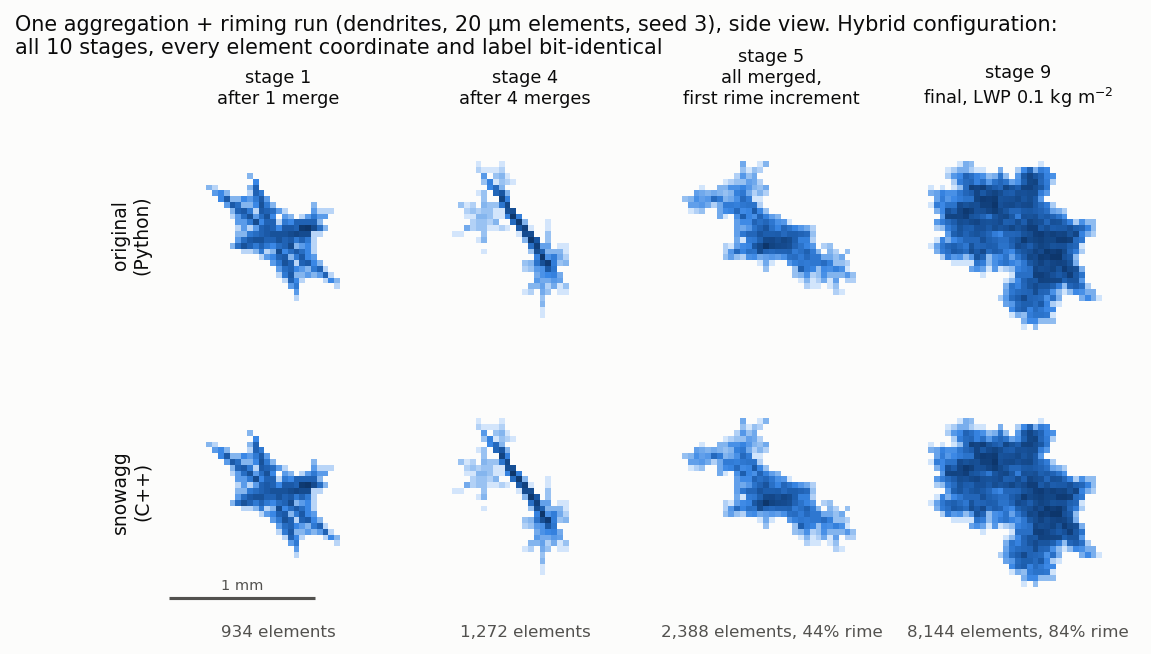
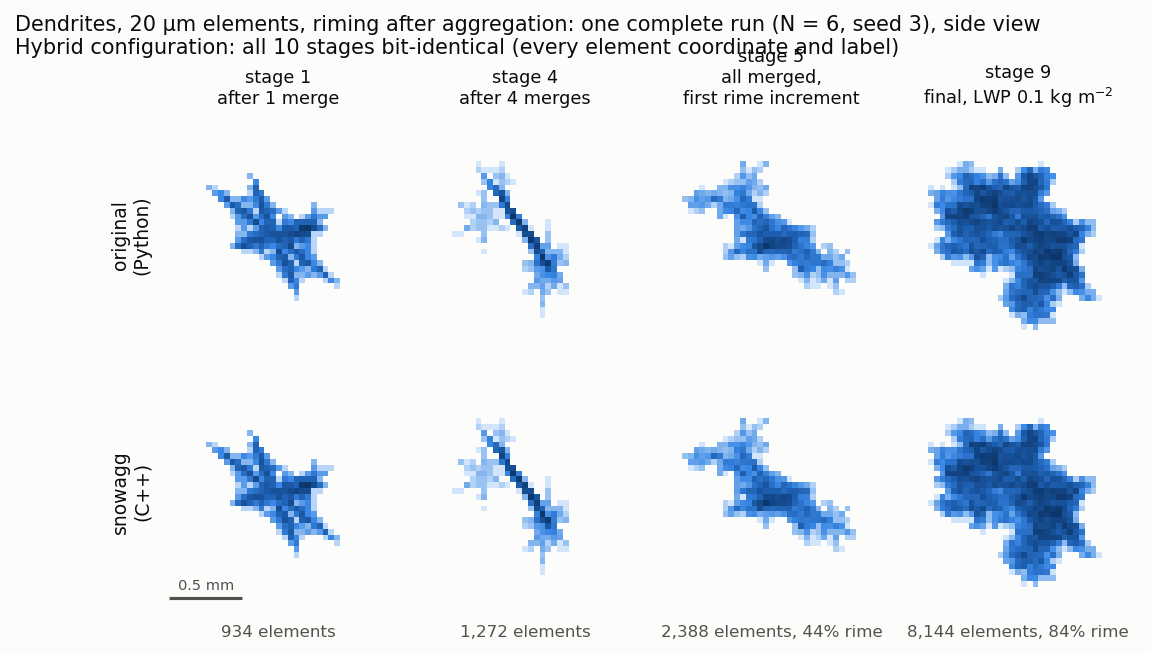
Show three bit-identical runs instead of one
Adds columns rimed after every merge (simultaneous riming) and needles with
rime compaction to the dendrite run; compare_geometry.py takes a list of
hybrid-configuration runs and --only to make a subset of the figures.

Changed region(s): [[0.0, 0.0, 0.9123, 0.0917], [0.152, 0.8869, 0.2737, 0.9174]]

diff --git a/snowagg/docs/compare_geometry.py b/snowagg/docs/compare_geometry.py
@@ -1,7 +1,7 @@
 """Figures comparing the geometry of snowagg's snowflakes with the original.
 
 1. img/monomers.png: monomer lattices of all crystal types (bit-identical).
-2. img/exact_run.png: a complete aggregation + riming run in the hybrid
+2. img/exact_run*.png: three complete aggregation + riming runs in the hybrid
    configuration of tests/hybrid.py (bit-identical at every stage).
 3. img/ensemble.png, img/mass_size.png, img/gallery.png: ensembles of complete
    runs in the normal configuration, where individual runs differ (see the
@@ -43,9 +43,21 @@ RHO_I = 916.7
 KINDS = [("plate", 1.0e-3), ("column", 1.0e-3), ("needle", 1.0e-3), ("dendrite", 2.0e-3),
          ("rosette", 1.0e-3), ("bullet", 0.6e-3), ("spheroid", 0.6e-3)]
 
-EXACT_RUN = (dict(psd="exponential", size=0.5e-3, min_size=0.2e-3, max_size=1.5e-3,
-                  mono_type="dendrite", grid_res=20e-6, rimed=True),
-             dict(N=6, riming_lwp=0.1, riming_mode="subsequent", lwp_div=4), 3)
+# complete runs in the hybrid configuration (bit-identical to the original)
+EXACT_RUNS = [
+    dict(file="exact_run.png", what="Dendrites, 20 µm elements, riming after aggregation",
+         mono=dict(psd="exponential", size=0.5e-3, min_size=0.2e-3, max_size=1.5e-3,
+                   mono_type="dendrite", grid_res=20e-6, rimed=True),
+         kw=dict(N=6, riming_lwp=0.1, riming_mode="subsequent", lwp_div=4), seed=3),
+    dict(file="exact_run_columns.png", what="Columns, 20 µm elements, riming after every merge",
+         mono=dict(psd="exponential", size=0.5e-3, min_size=0.2e-3, max_size=1.5e-3,
+                   mono_type="column", grid_res=20e-6, rimed=True),
+         kw=dict(N=6, riming_lwp=0.1, riming_mode="simultaneous", lwp_div=2), seed=5),
+    dict(file="exact_run_needles.png", what="Needles, 15 µm elements, riming with rime compaction",
+         mono=dict(psd="exponential", size=0.8e-3, min_size=0.3e-3, max_size=2e-3,
+                   mono_type="needle", grid_res=15e-6, rimed=True),
+         kw=dict(N=6, riming_lwp=0.05, riming_mode="subsequent", lwp_div=3, compact_dist=0.5), seed=2),
+]
 
 CONFIGS = {
     "Rimed dendrite aggregates":
@@ -180,7 +192,7 @@ def patched(module, attrs):
             setattr(module, k, v)
 
 
-def exact_run():
+def exact_run(cfg):
     sys.path.insert(0, os.path.join(ROOT, "tests"))
     import hybrid
     from aggregation import aggregate as ref_aggregate
@@ -189,7 +201,7 @@ def exact_run():
     from snowagg import riming as S
 
     stable = _stable_sort_variant(ref_aggregate.RimedAggregate, ["add_rime_particles", "compact_rime"])
-    mono, kw, seed = EXACT_RUN
+    mono, kw, seed = cfg["mono"], cfg["kw"], cfg["seed"]
     with patched(R, hybrid.stable_reference_modules(stable)):
         st_py = [[(a.X.copy(), a.ident.copy()) for a in aggs]
                  for aggs in R.generate_rimed_aggregate(R.gen_monomer(**mono), seed=seed, iter=True, **kw)]
@@ -202,17 +214,39 @@ def exact_run():
     return st_py, st_cc, same
 
 
-def fig_exact_run():
-    st_py, st_cc, same = exact_run()
-    mono, kw, seed = EXACT_RUN
-    N = kw["N"]
-    counts = [len(s) for s in st_py]
-    # the driver yields after every merge except the last one, then after every
-    # rime increment, then the final (re-oriented) particle
-    rimed = counts.index(1)
-    picks = [(1, "after 1 merge"), (N - 2, f"after {N - 2} merges"),
-             (rimed, "all merged,\nfirst rime increment"),
-             (len(st_py) - 1, f"final, LWP {kw['riming_lwp']:g} kg m$^{{-2}}$")]
+def stage_picks(st, N, lwp):
+    """Four stages to show, with labels. The driver yields after every merge
+    except the last one, then (subsequent riming) after every rime increment,
+    then the final, re-oriented particle."""
+    counts = [len(s) for s in st]
+    last = len(st) - 1
+    multi = [k for k in range(1, last + 1) if counts[k] > 1]
+    single = counts.index(1)
+    ks = [multi[0], multi[-1], single if single < last else multi[len(multi) // 2], last]
+    ks = sorted(dict.fromkeys(ks))
+
+    def label(k):
+        if k == last:
+            return f"final, LWP {lwp:g} kg m$^{{-2}}$" if lwp else "final"
+        if counts[k] > 1:
+            m = N - counts[k]
+            return f"after {m} merge{'s' if m > 1 else ''}"
+        return "all merged,\nfirst rime increment" if k == single else f"rime increment {k - single + 1}"
+    return [(k, label(k)) for k in ks]
+
+
+def nice_length(width_mm):
+    """A round scale-bar length of about a quarter of the panel width."""
+    for length in (2, 1, 0.5, 0.25, 0.1):
+        if length <= 0.35 * width_mm:
+            return length
+    return 0.05
+
+
+def fig_exact_run(cfg):
+    st_py, st_cc, same = exact_run(cfg)
+    mono, kw, seed = cfg["mono"], cfg["kw"], cfg["seed"]
+    picks = stage_picks(st_py, kw["N"], kw.get("riming_lwp", 0.0))
     g = mono["grid_res"]
     big = lambda stage: max(stage, key=lambda t: len(t[0]))  # noqa: E731
     hw = 0.55 * max(np.ptp(big(st_py[k])[0], axis=0).max() for k, _ in picks)
@@ -228,14 +262,14 @@ def fig_exact_run():
                         transform=axes[1, j].transAxes, ha="center", va="top", fontsize=8, color=fs.INK_2)
     axes[0, 0].set_ylabel("original\n(Python)", fontsize=9, color=fs.INK)
     axes[1, 0].set_ylabel("snowagg\n(C++)", fontsize=9, color=fs.INK)
-    scale_bar(axes[1, 0], hw, 1.0)
+    scale_bar(axes[1, 0], hw, nice_length(2 * hw * 1e3))
     verdict = "bit-identical" if same else "NOT identical"
-    fig.suptitle(f"One aggregation + riming run (dendrites, 20 µm elements, seed {seed}), side view. "
-                 f"Hybrid configuration:\nall {len(st_py)} stages, every element coordinate and label {verdict}",
+    fig.suptitle(f"{cfg['what']}: one complete run (N = {kw['N']}, seed {seed}), side view\n"
+                 f"Hybrid configuration: all {len(st_py)} stages {verdict} (every element coordinate and label)",
                  fontsize=10, x=0.01, ha="left")
     fig.subplots_adjust(wspace=0.04, hspace=0.04, top=0.84)
-    fs.save(fig, "exact_run.png")
-    print(f"exact run: {len(st_py)} stages, identical={same}")
+    fs.save(fig, cfg["file"])
+    print(f"{cfg['file']}: {len(st_py)} stages, identical={same}")
 
 
 # ---- 3. ensembles, normal configuration ----------------------------------------
@@ -379,11 +413,17 @@ def main():
     ap.add_argument("--members", type=int, default=300)
     ap.add_argument("--workers", type=int, default=6)
     ap.add_argument("--recompute", action="store_true")
+    ap.add_argument("--only", choices=["monomers", "runs", "ensembles"], help="make only these figures")
     args = ap.parse_args()
     fs.apply()
     sys.path.insert(0, os.path.join(ROOT, "tests"))
-    fig_monomers()
-    fig_exact_run()
+    if args.only in (None, "monomers"):
+        fig_monomers()
+    if args.only in (None, "runs"):
+        for cfg in EXACT_RUNS:
+            fig_exact_run(cfg)
+    if args.only is not None and args.only != "ensembles":
+        return
     rows, projs = ensembles(args.members, args.workers, args.recompute)
     for name in CONFIGS:
         for key, *_ in PROPS:

diff --git a/snowagg/README.md b/snowagg/README.md
@@ -133,10 +133,14 @@ Monomer lattices are bit-identical in both configurations:
 
 ![Monomer lattices of all crystal types from the original and from snowagg](docs/img/monomers.png)
 
-A complete aggregation and riming run in the hybrid configuration; all stages are
-identical element by element:
+Three complete aggregation and riming runs in the hybrid configuration, with
+different monomers and riming modes; all stages are identical element by element:
 
-![One complete run, original vs snowagg, hybrid configuration](docs/img/exact_run.png)
+![One complete run of dendrites, original vs snowagg, hybrid configuration](docs/img/exact_run.png)
+
+![One complete run of columns rimed after every merge, original vs snowagg](docs/img/exact_run_columns.png)
+
+![One complete run of needles with rime compaction, original vs snowagg](docs/img/exact_run_needles.png)
 
 Ensembles of complete runs in the normal configuration. The curves are the cumulative
 distributions of size, mass, area ratio, aspect ratio and rime fraction; the
